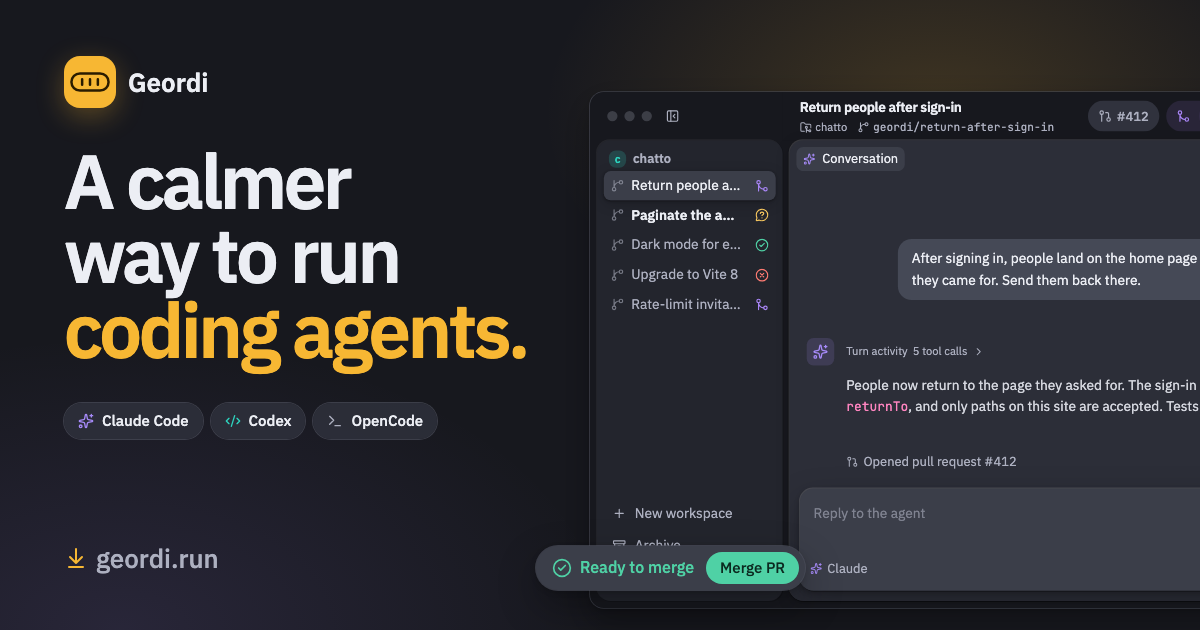
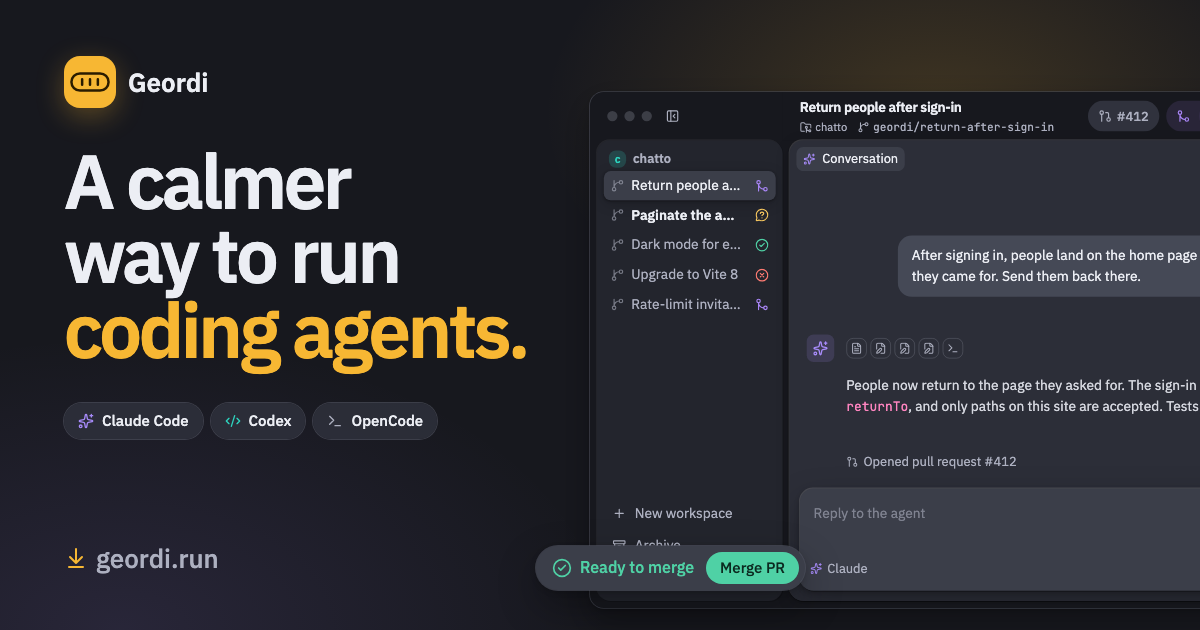
fix(ui): open tool-only activity directly (#546)

Changed region(s): [[0.74, 0.3619, 1.0, 0.4825], [0.6783, 0.5429, 0.8017, 0.573]]

diff --git a/packages/ui/src/ToolGroup.svelte b/packages/ui/src/ToolGroup.svelte
@@ -7,6 +7,7 @@
 
 	type Props = Pick<ComponentProps<typeof ToolCall>, 'workspace' | 'PatchView'> & {
 		tools: ToolEntry[];
+		open?: boolean;
 		cwd?: string;
 		/** Whether the agent is at work on this very group: its last tool may still be running. */
 		live?: boolean;
@@ -19,6 +20,7 @@
 		workspace,
 		PatchView,
 		live = false,
+		open = $bindable(false),
 		backgroundIds = [],
 		reveal
 	}: Props = $props();
@@ -36,37 +38,45 @@
 <!-- with room on both sides: it stands between what was said before and after -->
 <!-- first in a reply, its row is centred on the avatar beside it -->
 <Disclosure
+	bind:open
 	collapsedChevron={false}
-	class="py-1 first:pt-0"
-	summaryClass="min-h-7 text-sm text-muted hover:text-ink"
+	class="relative py-1 first:pt-0"
+	summaryClass={open
+		? 'absolute left-1 z-1 mt-1.5 size-7 text-muted hover:bg-hover hover:text-ink [&>span]:mx-auto'
+		: 'min-h-7 text-sm text-muted hover:text-ink'}
 >
 	{#snippet heading()}
-		<span class="sr-only">Tool calls</span>
-		<span class="flex flex-wrap items-center gap-1">
-			{#each tools as tool (tool.id)}
-				{@const activity = activityOf(tool)}
-				{@const status = tool.isError ? 'failed' : activity}
-				{@const label = sortOf(tool) + (status ? ', ' + status : '')}
-				<span
-					role="img"
-					aria-label={label}
-					title={label}
-					data-live={activity ? true : undefined}
-					class={[
-						'grid size-6 shrink-0 place-items-center rounded-control border border-current/25 motion-safe:transition-opacity motion-safe:starting:opacity-0',
-						activity && 'edge-live before:p-px',
-						tool.isError && 'text-danger'
-					]}
-				>
-					<span class={['size-3.5', iconOf(tool)]}></span>
-				</span>
-			{/each}
-		</span>
+		{#if open}
+			<span class="sr-only">Collapse tool calls</span>
+		{:else}
+			<span class="sr-only">Tool calls</span>
+			<span class="flex flex-wrap items-center gap-1">
+				{#each tools as tool (tool.id)}
+					{@const activity = activityOf(tool)}
+					{@const status = tool.isError ? 'failed' : activity}
+					{@const label = sortOf(tool) + (status ? ', ' + status : '')}
+					<span
+						role="img"
+						aria-label={label}
+						title={label}
+						data-live={activity ? true : undefined}
+						class={[
+							'grid size-6 shrink-0 place-items-center rounded-control border border-current/25 motion-safe:transition-opacity motion-safe:starting:opacity-0',
+							activity && 'edge-live before:p-px',
+							tool.isError && 'text-danger'
+						]}
+					>
+						<span class={['size-3.5', iconOf(tool)]}></span>
+					</span>
+				{/each}
+			</span>
+		{/if}
 	{/snippet}
 
-	<div class="mt-1.5 divide-y divide-line/70 overflow-hidden card">
+	<div class="divide-y divide-line/70 overflow-hidden card">
 		{#each tools as tool (tool.id)}
 			<div
+				class="pl-7"
 				{@attach reveal?.id === tool.id
 					? (node) => {
 							const details = node.closest('details');

diff --git a/apps/web/src/lib/components/workspace/MessageView.stories.svelte b/apps/web/src/lib/components/workspace/MessageView.stories.svelte
@@ -419,6 +419,33 @@
 	</div>
 </Story>
 
+<Story name="Finished tool calls" asChild>
+	<div class="flex h-48 max-w-xl flex-col sheet overflow-hidden">
+		<MessageView
+			agent="codex"
+			blocks={[
+				{
+					kind: 'agent',
+					parts: [
+						{
+							kind: 'tools',
+							tools: ['git status', 'pnpm check', 'pnpm lint', 'pnpm test'].map((input) => ({
+								kind: 'tool',
+								id: input,
+								name: 'shell',
+								input,
+								output: 'OK',
+								at: '',
+								isError: false
+							}))
+						}
+					]
+				}
+			]}
+		/>
+	</div>
+</Story>
+
 <Story
 	name="Inspect a finished turn"
 	asChild
@@ -669,8 +696,11 @@
 		await expect(
 			canvas.getByText('The daemon restores both reviewers after reconnect.')
 		).toBeVisible();
-		await userEvent.click(canvas.getByRole('button', { name: /Turn activity/ }));
-		await expect(canvas.getByText('Tool calls').closest('summary')).toBeVisible();
+		await expect(canvas.queryByRole('button', { name: /Turn activity/ })).toBeNull();
+		const tools = canvas.getByText('Tool calls').closest('summary')!;
+		await userEvent.click(tools);
+		await expect(canvas.getByText('session.ts')).toBeVisible();
+		await userEvent.click(tools);
 	}}
 >
 	<div class="flex h-96 max-w-3xl flex-col sheet overflow-hidden">
@@ -808,10 +838,7 @@
 		await userEvent.click(stop);
 		await expect(stopBackground).toHaveBeenCalledWith('stop-tests');
 		await userEvent.click(testTask);
-		await expect(await canvas.findByRole('button', { name: /Turn activity/ })).toHaveAttribute(
-			'aria-expanded',
-			'true'
-		);
+		await expect(canvas.queryByRole('button', { name: /Turn activity/ })).toBeNull();
 		await waitFor(() =>
 			expect(testTask.ownerDocument.activeElement?.closest('details')).toHaveAttribute('open')
 		);

diff --git a/apps/website/src/components/Demo.svelte b/apps/website/src/components/Demo.svelte
@@ -21,7 +21,6 @@
 	import UserMessage from '@geordi/ui/UserMessage.svelte';
 	import AgentMessage from '@geordi/ui/AgentMessage.svelte';
 	import AgentText from '@geordi/ui/AgentText.svelte';
-	import TurnActivity from '@geordi/ui/TurnActivity.svelte';
 	import ToolGroup from '@geordi/ui/ToolGroup.svelte';
 	import ProgressIcon from '@geordi/ui/ProgressIcon.svelte';
 	import Spinner from '@geordi/ui/Spinner.svelte';
@@ -430,19 +429,17 @@
 								{:else}
 									<div class="mt-auto pt-4"><UserMessage text={firstMessage} /></div>
 									<AgentMessage agent="claude">
-										{#if step >= 7}
-											<TurnActivity
-												summary={`${calls.length} tool calls`}
-												expanded={activityOpen}
-												ontoggle={() => {
-													activityOpen = !activityOpen;
-													schedule();
-												}}
-											/>
-										{/if}
-										{#if calls.length && (step < 7 || activityOpen)}<ToolGroup
+										{#if calls.length}<ToolGroup
 												tools={calls}
 												live={running}
+												bind:open={
+													() => activityOpen,
+													(open) => {
+														if (activityOpen === open) return;
+														activityOpen = open;
+														schedule();
+													}
+												}
 											/>{/if}
 										{#if step === 1 && running}<p
 												class="flex h-7 items-center gap-2 text-xs text-muted"

diff --git a/apps/web/src/lib/components/Transcript.stories.svelte b/apps/web/src/lib/components/Transcript.stories.svelte
@@ -328,8 +328,17 @@
 		]);
 		const liveSummary = running[0].closest('summary')!;
 		await expect(liveSummary).not.toHaveTextContent('pnpm build');
+		const collapsedLeft = liveSummary.querySelector('[role="img"]')!.getBoundingClientRect().left;
 		await userEvent.click(liveSummary);
-		await expect(within(liveSummary.closest('details')!).getByText('pnpm build')).toBeVisible();
+		const group = liveSummary.closest('details')!;
+		await expect(liveSummary.querySelector('[role="img"]')).toBeNull();
+		await expect(liveSummary).toHaveAccessibleName('Collapse tool calls');
+		const list = liveSummary.nextElementSibling!.getBoundingClientRect();
+		await expect(list.left).toBe(collapsedLeft);
+		await expect(liveSummary.getBoundingClientRect().left).toBeGreaterThanOrEqual(list.left);
+		const command = within(group).getByText('pnpm build');
+		await expect(command).toBeVisible();
+		await expect(command.closest('summary')!.querySelector('[data-live]')).toBeVisible();
 		await userEvent.click(liveSummary);
 		await userEvent.click(summary);
 		await expect(summary.parentElement).toHaveAttribute('open');

diff --git a/apps/web/src/lib/components/workspace/MessageView.svelte b/apps/web/src/lib/components/workspace/MessageView.svelte
@@ -549,12 +549,14 @@
 							{@const hidden = block.parts
 								.slice(0, hiddenCount)
 								.filter((part) => part.kind !== 'subagent')}
+							{@const foldActivity =
+								hidden.length > 0 && !(hidden.length === 1 && hidden[0].kind === 'tools')}
 							<!-- said where the reply ends: beside its last words, else on its own -->
 							{@const ending = live
 								? undefined
 								: { reply: block, latest: row.index === latestReply }}
 							<AgentMessage {agent}>
-								{#if hidden.length}
+								{#if foldActivity}
 									<TurnActivity
 										summary={activitySummary(hidden)}
 										expanded={expanded.has(row.index)}
@@ -562,7 +564,7 @@
 									/>
 								{/if}
 								{#each block.parts as part, j (j)}
-									{#if part.kind === 'subagent' || j >= hiddenCount || expanded.has(row.index)}
+									{#if !foldActivity || part.kind === 'subagent' || j >= hiddenCount || expanded.has(row.index)}
 										{@render agentPart(
 											part,
 											j !== lastText,

diff --git a/packages/ui/src/ToolCall.svelte b/packages/ui/src/ToolCall.svelte
@@ -4,7 +4,6 @@
 	import type { ChangedFiles, ToolEntry } from './tools.ts';
 	import Disclosure from './Disclosure.svelte';
 	import { filesOf, iconOf, relativeTo, titleOf } from './tools.ts';
-	import ProgressIcon from './ProgressIcon.svelte';
 	import ToolTitle from './ToolTitle.svelte';
 
 	type Props = Omit<ToolEntry, 'id'> & {
@@ -52,16 +51,18 @@
 <Disclosure bind:open summaryClass="px-3.5 py-2 text-sm hover:bg-hover">
 	{#snippet heading()}
 		<span
+			data-live={running || undefined}
 			class={[
 				'grid size-6 shrink-0 place-items-center rounded-control',
+				running && 'edge-live before:p-px',
 				isError ? 'tone-danger' : 'bg-sunken text-muted'
 			]}
 		>
 			<span class={['size-3.5', iconOf(tool)]}></span>
 		</span>
 		<ToolTitle {parts} class="flex-1" />
-		{#if pending}
-			<ProgressIcon label="Running" />
+		{#if running}
+			<span class="sr-only">Running</span>
 		{:else if isError}
 			<span class="sr-only">Failed</span>
 		{/if}

diff --git a/docs/fdr/FDR-001-workspaces.md b/docs/fdr/FDR-001-workspaces.md
@@ -1,7 +1,7 @@
 # FDR-001: Workspaces
 
 **Status:** Active
-**Last reviewed:** 2026-11-25
+**Last reviewed:** 2026-11-26
 
 ## Overview
 
@@ -13,7 +13,7 @@ A workspace is a piece of work: one conversation with one agent, in a Git worktr
 - Choose **Rename workspace** in the sidebar context menu to set the name yourself. Once you save it, only you can rename the workspace again.
 - A workspace has exactly one conversation. To work on something else, or to have a second agent, start another workspace (or let the agent start one: FDR-002).
 - Geordi saves each prompt before sending it. While a saved prompt waits for an offline daemon, the conversation shows **Waiting for daemon**. Delivery resumes when it reconnects.
-- During a turn, the conversation shows progress as it happens. When the turn ends, the final reply or failure stays visible. Open **Turn activity** to inspect earlier messages and tool calls in order.
+- During a turn, the conversation shows progress as it happens. When the turn ends, the final reply or failure stays visible. If there is just one group of tool calls to inspect, click its icons to see the calls. Open **Turn activity** when earlier messages and calls are grouped together.
 - At the end of a turn that changed files, the reply footer shows the filename for a single edit or the number of changed files, plus the lines added and removed. Select it to open the numbered turn tab. You can expand unchanged lines from the file versions kept in Git, including after archiving. Older turns can expand when Git still has the versions named in the saved patch. Offline, the review shows the saved patch or file summary. Each text diff opens expanded and can be folded from its file header. The diff compares the worktree at the start and end of the turn, so it includes shell edits and commits. Edits made at the same time by another agent or a person in the same worktree are included. The saved diff stays available after later edits or archiving. For large patches, the summary keeps the counts and file list.
 - An agent’s plan updates in place as its steps change. If the agent continues the plan in a later exchange, the card moves into that reply. The current step stands out. When all steps are complete, the plan folds into a summary that can be reopened. Agents can also share a written plan or withdraw a plan.
 - While the agent is working, Enter steers it: the message reaches the agent in the middle of its turn, which goes on, and is the next thing it reads (ADR-010). Stop stops the turn, and with it what was said and not read yet. Cmd/Ctrl+Enter queues the message instead: it waits and goes out when the agent has finished its turn. Queued messages are shown under the conversation and can be taken back. After a turn that failed or was stopped, they stay put until the person says something.

diff --git a/planning/x67zz-show-each-tool-invocation-in-the-collapsed-row.md b/planning/x67zz-show-each-tool-invocation-in-the-collapsed-row.md
@@ -6,4 +6,4 @@ data:
 id: x67zz
 title: Show each tool invocation in the collapsed row
 ---
-Collapsed tool groups show one outlined square per invocation in order, with no trailing chevron. A failed call uses the danger colour and has an accessible failure label. New tiles fade in. Foreground and background calls use the composer’s moving edge while running, with a static edge for reduced motion. Verified the mixed-result row in both themes, pointer and keyboard interaction, and the running border in Chromium. The collapsed row stays icon-only during execution. Expand it to read the running command.
+Collapsed tool groups show one outlined square per invocation in order, with no trailing chevron. A failed call uses the danger colour and has an accessible failure label. New tiles fade in. Foreground and background calls use the composer’s moving edge while running, with a static edge for reduced motion. Verified the mixed-result row in both themes, pointer and keyboard interaction, and the running border in Chromium. The collapsed row stays icon-only during execution. Expand it to read the running command. After a turn ends, a single group of tool calls opens directly from its icons. Opening the group replaces the icon row with the call list. Busy icons in the list carry the same activity border. The list aligns with the collapsed icons. A chevron inside its upper-left corner collapses it.

diff --git a/docs/fdr/INDEX.md b/docs/fdr/INDEX.md
@@ -2,7 +2,7 @@
 
 | #                                                         | Feature                                                          | Status     | Last reviewed |
 | --------------------------------------------------------- | ---------------------------------------------------------------- | ---------- | ------------- |
-| [FDR-001](FDR-001-workspaces.md)                          | Workspaces                                                       | Active     | 2026-11-25    |
+| [FDR-001](FDR-001-workspaces.md)                          | Workspaces                                                       | Active     | 2026-11-26    |
 | [FDR-002](FDR-002-agents-starting-agents.md)              | Agents starting and supervising agents                           | Active     | 2026-11-25    |
 | [FDR-003](FDR-003-workspace-actions.md)                   | Workspace actions                                                | Active     | 2026-11-22    |
 | [FDR-004](FDR-004-model-and-effort.md)                    | Choosing the agent, its model and its effort                     | Active     | 2026-11-22    |

diff --git a/.sweet/yellow-rapid-falcon.md b/.sweet/yellow-rapid-falcon.md
@@ -1,0 +1,5 @@
+---
+type: polish
+---
+
+When a finished turn has one group of tool calls to inspect, click the icons to see the calls directly. The expanded list marks running calls with the same moving border as the collapsed icons. The list opens in place, with its collapse control inside.
